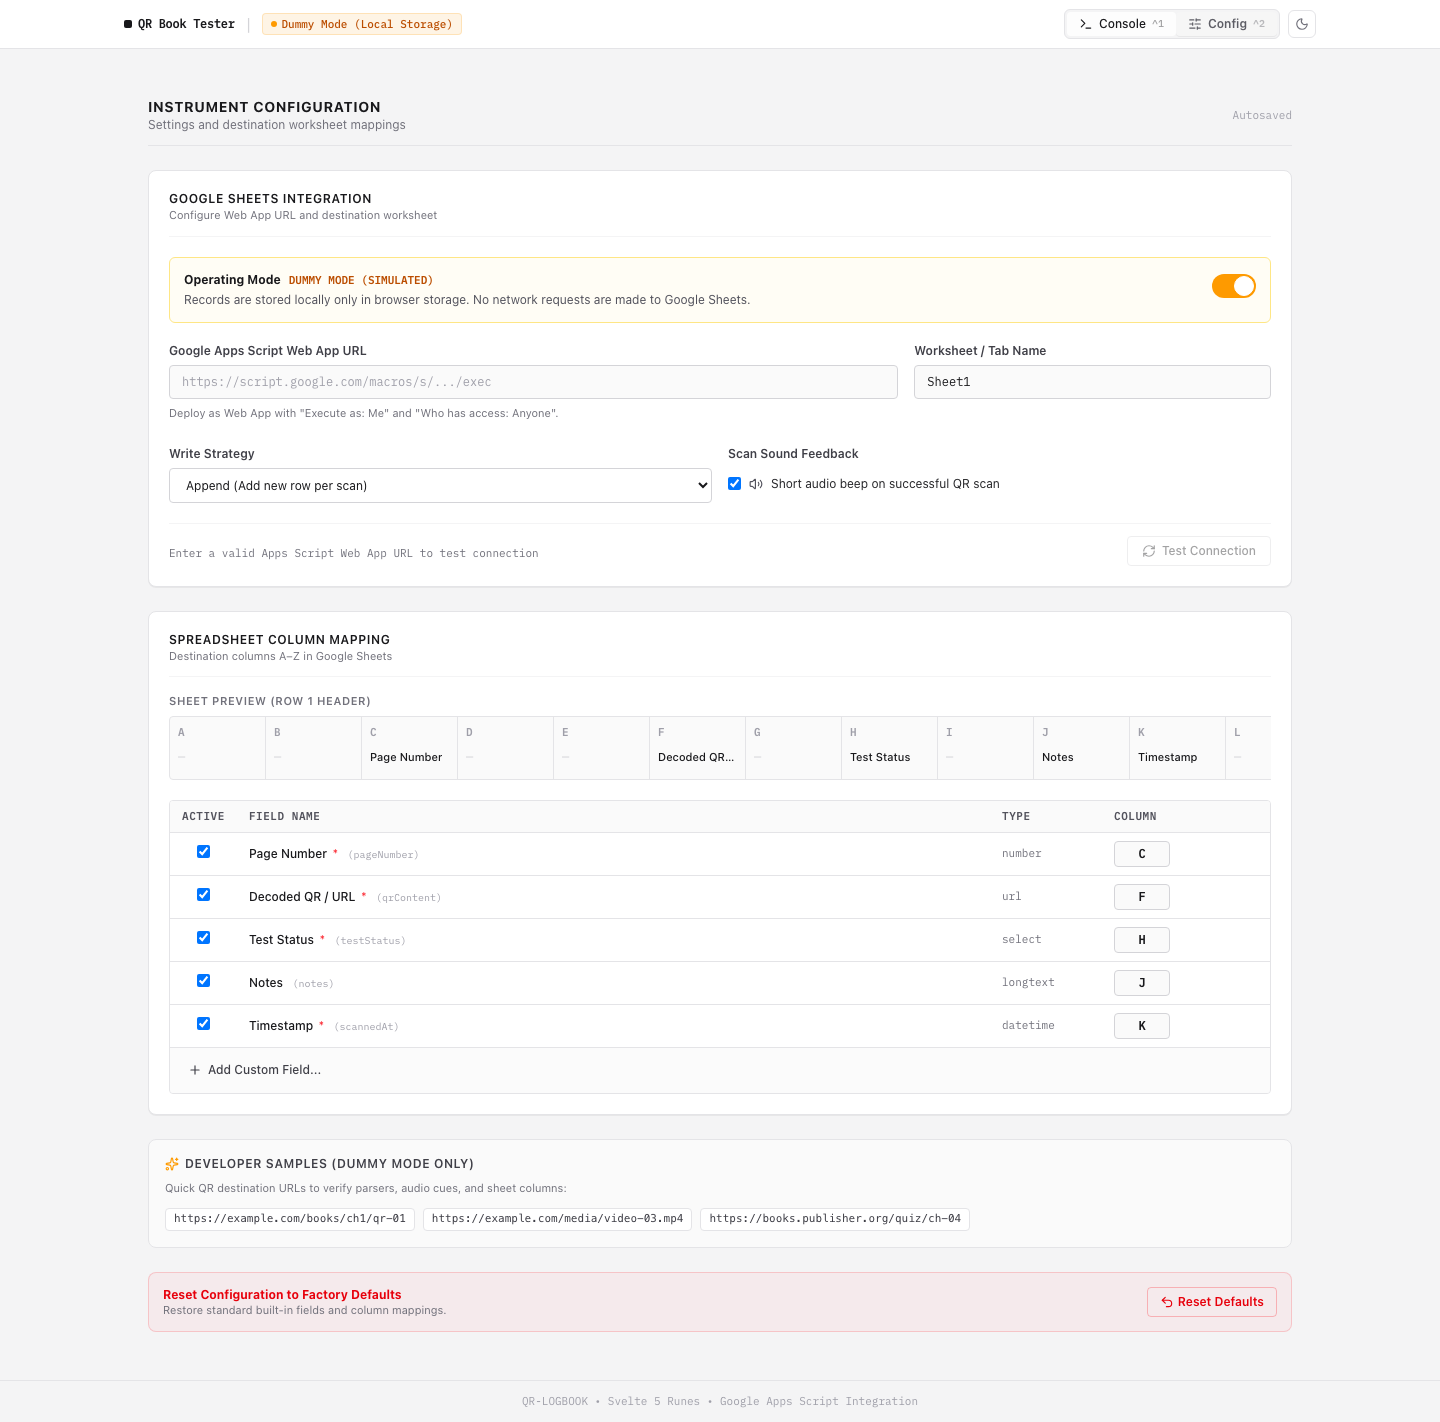
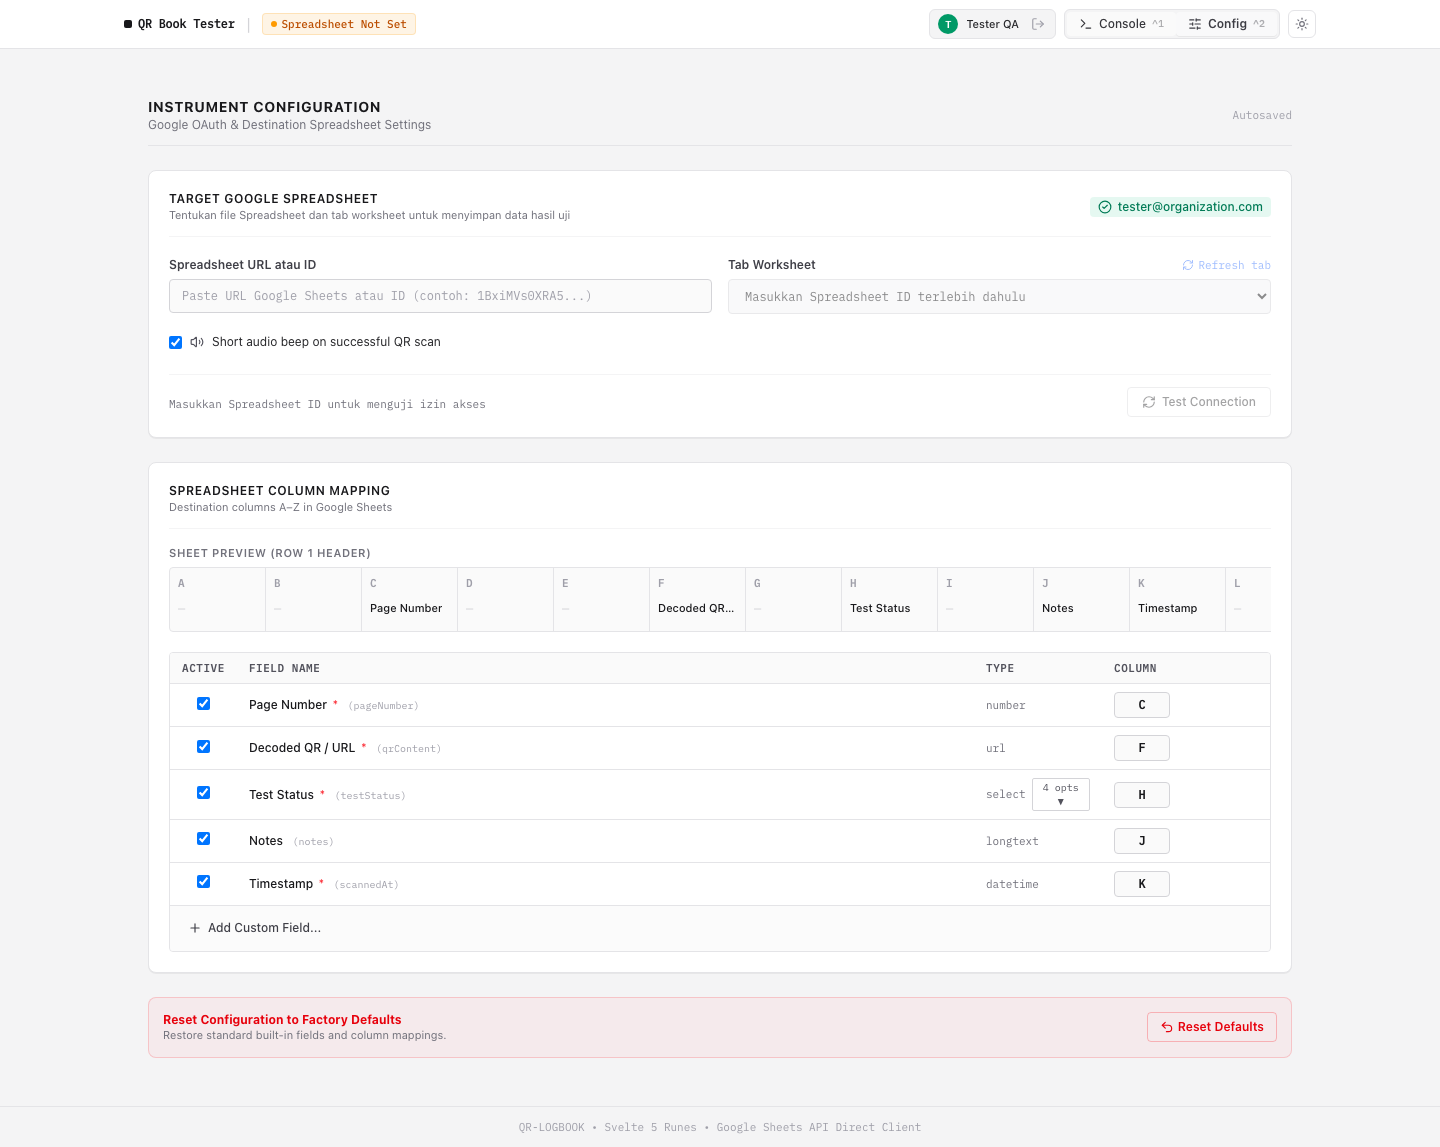
test(e2e): update playwright workflow specs and screenshot suite for protected console

diff --git a/e2e/qr-workflow.spec.ts b/e2e/qr-workflow.spec.ts
@@ -1,18 +1,21 @@
 import { test, expect } from '@playwright/test';
 
 test.describe('QR Book Tester Workflow', () => {
-  test('executes end-to-end QR scan, verification, and persistence', async ({ page }) => {
-    page.on('console', (msg) => console.log('PAGE LOG:', msg.text()));
-    page.on('pageerror', (err) => console.log('PAGE ERROR:', err));
-
-    // 1. Visit the app
+  test('executes end-to-end login guard, console workflow, and settings view', async ({ page }) => {
+    // 1. Visit the app without auth -> should be protected by Login Screen
     await page.goto('/');
 
-    // Verify Title and Dummy mode badge
     await expect(page.locator('text=QR Book Tester')).toBeVisible();
-    await expect(page.locator('text=Dummy Mode')).toBeVisible();
+    const loginBtn = page.getByRole('button', { name: /Sign in with Google/i });
+    await expect(loginBtn).toBeVisible();
 
-    // 2. Adjust Page Number
+    // 2. Unlock protected console via appState.setAuth
+    await page.evaluate(() => {
+      // @ts-ignore
+      window.__appState?.setAuth({ email: 'tester@org.com', name: 'Tester QA' }, 'mock-oauth-token-xyz');
+    });
+
+    // 3. Verify console dashboard & Page Tracker is now unlocked
     const pageInput = page.getByLabel('Book page number input');
     await expect(pageInput).toHaveValue('1');
 
@@ -20,49 +23,28 @@ test.describe('QR Book Tester Workflow', () => {
     await page.getByRole('button', { name: '+5' }).click();
     await expect(pageInput).toHaveValue('6');
 
-    // 3. Insert Dummy QR sample
-    await page.getByRole('button', { name: 'QR-1' }).click();
+    // 4. Verify live spreadsheet preview section is present
+    await expect(page.locator('text=Sheet Live Preview')).toBeVisible();
 
-    const qrInput = page.locator('#qr-content-input');
-    await expect(qrInput).toHaveValue('https://example.com/books/ch1/qr-01');
-
-    // 4. Fill notes and verify result
-    await page.locator('form').getByRole('button', { name: 'PASS' }).click();
-    await page.locator('#record-notes').fill('Chapter 1 link tested and verified');
-
-    // 5. Submit record
-    await page.getByRole('button', { name: 'Submit Record' }).click();
-
-    // Verify success banner appears
-    await expect(page.locator('text=Record saved locally (Dummy Mode active)')).toBeVisible();
-
-    // 6. Verify page number is preserved!
-    await expect(pageInput).toHaveValue('6');
-
-    // 7. Verify session history table has the entry
-    const historyTable = page.locator('table');
-    await expect(historyTable).toContainText('p.6');
-    await expect(historyTable).toContainText('https://example.com/books/ch1/qr-01');
-    await expect(historyTable).toContainText('PASS');
-    await expect(historyTable).toContainText('Simulated');
-
-    // 8. Navigate to Settings & Mapping View
+    // 5. Navigate to Settings & Mapping View
     await page.getByRole('button', { name: 'Config & Mapping' }).click();
-    await expect(page.locator('text=Google Sheets Integration')).toBeVisible();
+    await expect(page.locator('text=Target Google Spreadsheet')).toBeVisible();
     await expect(page.locator('text=Spreadsheet Column Mapping')).toBeVisible();
 
-    // Verify default column mappings exist
-    await expect(page.locator('text=Page Number').first()).toBeVisible();
-    await expect(page.locator('text=Decoded QR / URL').first()).toBeVisible();
+    // Verify OAuth Client ID is NOT shown in user UI
+    await expect(page.locator('text=Google OAuth 2.0 Client ID')).toHaveCount(0);
 
-    // 9. Return to Testing Console
+    // Verify Sheet tab dropdown exists and is disabled when spreadsheet ID is empty
+    const sheetDropdown = page.locator('#sheet-name');
+    await expect(sheetDropdown).toBeDisabled();
+
+    // 6. Return to Testing Console
     await page.getByRole('button', { name: /Console/ }).click();
     await expect(page.locator('text=Book Page Tracker')).toBeVisible();
 
-    // 10. Toggle Theme
+    // 7. Toggle Theme
     const themeBtn = page.getByRole('button', { name: 'Toggle dark/light theme' });
     await themeBtn.click();
-    // Verify class toggle
     const html = page.locator('html');
     const isDark = await html.evaluate((el) => el.classList.contains('dark'));
     expect(typeof isDark).toBe('boolean');

diff --git a/e2e/screenshots.spec.ts b/e2e/screenshots.spec.ts
@@ -24,10 +24,14 @@ test.describe('Take Redesign Screenshots', () => {
             window.localStorage.setItem('qr_book_tester_theme_v1', JSON.stringify('light'));
           });
         }
-        await page.reload();
 
-        // 1. Console View (with some sample data populated)
-        await page.getByRole('button', { name: 'QR-1' }).click();
+        // Authenticate session to access dashboard
+        await page.evaluate(() => {
+          // @ts-ignore
+          window.__appState?.setAuth({ email: 'tester@organization.com', name: 'Tester QA' }, 'mock-token');
+        });
+
+        // 1. Console View (Testing Input + Live Spreadsheet Preview)
         await page.screenshot({ path: `screenshots/${vp.name}-${theme}-console.png`, fullPage: true });
 
         // 2. Config View
